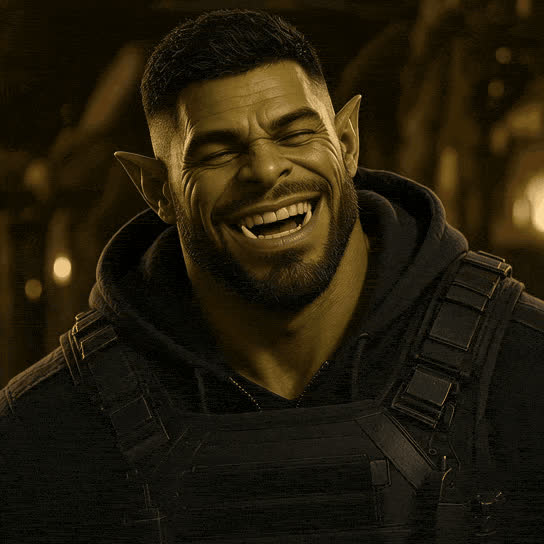
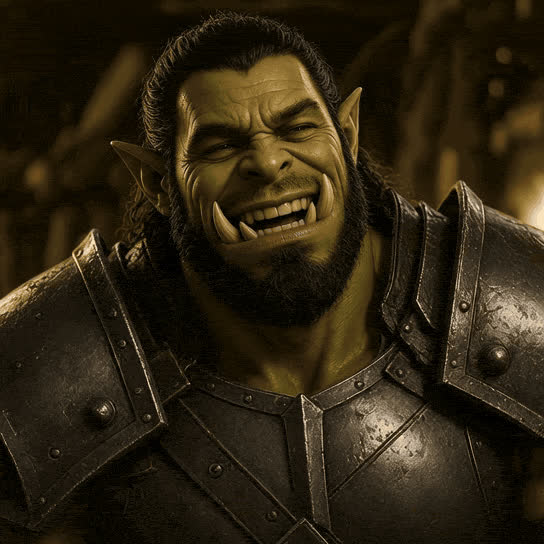
Put the happy orc back in warrior plate.

diff --git a/scripts/imagine-video.ts b/scripts/imagine-video.ts
@@ -59,7 +59,7 @@ const PROMPTS: Record<string, string> = {
     "The orc charges forward with the army, ranks running behind him, then bellows a rallying war cry, fist raised. Keep the wide shot and the army in frame. Locked camera, no zoom to a close-up.",
   gold: "The orc sits on the treasure and grins richer as coins shift and glint. A small satisfied chuckle in the shoulders. Locked camera.",
   happy:
-    "The orc laughs happily, a warm chuckle shaking his shoulders, eyes crinkling, grin holding. Keep the short modern fade haircut, the short trimmed beard, the hoodie, and the tactical vest exactly as they are. Do not grow long hair, a mohawk, or a long beard. Locked camera.",
+    "The orc laughs happily, a warm chuckle shaking his shoulders, eyes crinkling, grin holding. Keep the pulled-back warrior hair, the short trimmed beard, and the dark steel plate armor exactly as they are. Do not add a mohawk, a fade, a hoodie, or a long elder beard. Locked camera.",
   heart:
     "The orc holds the heart-shaped hands toward the camera, a warm affectionate smile, a small fond blink. Locked camera.",
   hype:
